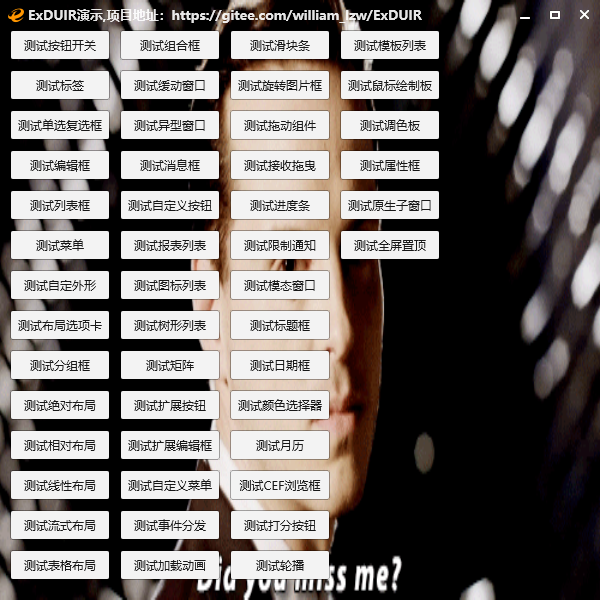
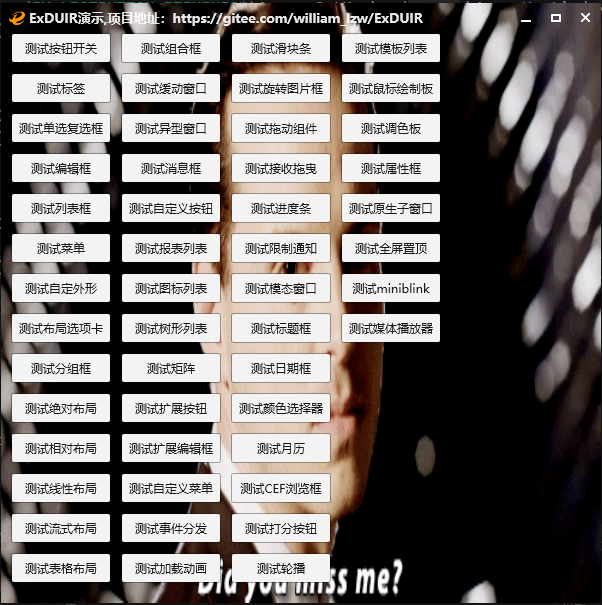
update

diff --git a/src/Class_ListButton_ex.cpp b/src/Class_ListButton_ex.cpp
@@ -95,7 +95,7 @@ LRESULT CALLBACK _listbuttonex_proc(HWND hWnd, HEXOBJ hObj, INT uMsg, WPARAM wPa
 		}
 		else
 		{
-			pTR->wzText = L"";
+			pTR->wzText = NULL;
 		}
 		if (nType == 1)//菜单条
 		{
@@ -113,7 +113,7 @@ LRESULT CALLBACK _listbuttonex_proc(HWND hWnd, HEXOBJ hObj, INT uMsg, WPARAM wPa
 			}
 			else
 			{
-				pTR->wzTips = L"";
+				pTR->wzTips = NULL;
 			}
 			pTR->dwState = pItemInfo->dwState;
 			UINT nWidth = 11;
@@ -190,7 +190,7 @@ LRESULT CALLBACK _listbuttonex_proc(HWND hWnd, HEXOBJ hObj, INT uMsg, WPARAM wPa
 					}
 					else
 					{
-						pTR->wzText = L"";
+						pTR->wzText = NULL;
 					}
 				}
 				if ((pItemInfo->dwMask & 4) == 4)
@@ -205,7 +205,7 @@ LRESULT CALLBACK _listbuttonex_proc(HWND hWnd, HEXOBJ hObj, INT uMsg, WPARAM wPa
 					}
 					else
 					{
-						pTR->wzTips = L"";
+						pTR->wzTips = NULL;
 					}
 				}
 				if ((pItemInfo->dwMask & 8) == 8)
@@ -364,7 +364,7 @@ INT _listbuttonex_itemWidth(HEXOBJ hObj, INT nType, UINT nImage, LPCWSTR wzText)
 		{
 			nWidth = Ex_ObjGetLong(hObj, ELBL_HIMAGWIDTH) + 10;
 		}
-		if (wzText != L"")
+		if (wzText != NULL)
 		{
 			if (_handle_validate(hObj, HT_OBJECT, (LPVOID*)&pObj, &nError))
 			{
@@ -451,7 +451,7 @@ void _listbuttonex_paint(HEXOBJ hObj)
 						nLeft += 5;
 						nWidth -= 10;
 
-						if (pTR->wzText != L"")
+						if (pTR->wzText != NULL)
 						{
 							EXARGB crText = Ex_ObjGetColor(hObj, COLOR_EX_TEXT_NORMAL);
 							if (pTR->dwState == STATE_DISABLE)
@@ -586,7 +586,7 @@ void _listbuttonex_mousemove(HEXOBJ hObj, INT nType, LPARAM lParam)
 				}
 				Ex_ObjInvalidateRect(hObj, 0);
 
-				if (pTR->wzTips != L"")
+				if (pTR->wzTips != NULL)
 				{
 					Ex_ObjTooltipsPop(hObj, pTR->wzTips);
 				}

diff --git a/msvc/test/test_obj.cpp b/msvc/test/test_obj.cpp
@@ -3409,7 +3409,7 @@ LRESULT CALLBACK OnMediaBtnEnevt(HEXOBJ hObj, INT nID, INT nCode, WPARAM wParam,
 {
 	if (hObj == m_hObjMediaButton1)
 	{
-		Ex_ObjSendMessage(m_hObjMedia, MFM_STATE_PLAY, 0, (LPARAM)L"file:///d:/44030123123.mp4");//可不带file:///前缀
+		Ex_ObjSendMessage(m_hObjMedia, MFM_STATE_PLAY, 0, (LPARAM)L"file:///G:/35.mp4");//可不带file:///前缀
 	}
 	else if (hObj == m_hObjMediaButton2)
 	{

diff --git a/README_EN.md b/README_EN.md
@@ -41,7 +41,7 @@ Currently,the following two compiling methods are supported:
 * Mimic The Windows messaging mechanism by sending messages and distributing notifications to components, compatible with native Windows messages and constants. Win32 API writing, more flexible than class writing extensibility.
 * Use Win32 style API method to call, support the generation of lib static library and DLL dynamic library. The generated dynamic link library can be called by other languages such as python, Java, go, dephi, C#, VB, easy language, etc.
 * Extension components are free and flexible, and the engine handles the underlying logic. The user only needs to write the drawing code and does not need to worry about complex message processing.
-* Currently support component has a button, switch, radio buttons, select box, edit box, rich text edit box, listview, report listview, template listview, group boxes, combo boxes, menus, tree frame, the slider, radio buttons, select box, TAB, load, animations, rotating picture box, page, picture box, message box, list of ICONS, list button, the toolbar , status bar, date box, color palette, color picker, title box, calendar box, score button, cef3 browser box, drawing board, you can superclass extension components on these components.
+* Currently support component has a button, switch, radio buttons, select box, edit box, rich text edit box, listview, report listview, template listview, group boxes, combo boxes, menus, tree frame, the slider, radio buttons, select box, TAB, load, animations, rotating picture box, page, picture box, message box, list of ICONS, list button, the toolbar , status bar, date box, color palette, color picker, title box, calendar box, score button, cef3 browser box, drawing board, media player, you can superclass extension components on these components.
 * Support for layouts that automatically update component positions when window sizes change. Currently, the following layouts are supported: absolute layout, relative layout, linear layout, flow layout, and table layout. Users can extend the layout.
 * Support GIF format images automatically play animation, support image format PNG, JPEG, BMP, GIF, WEBP. Windows or components can use the above format image as the background.
 * Support 34 eases, users can freely write window eases or component eases. Users can extend the easing algorithm.

diff --git a/README.md b/README.md
@@ -41,7 +41,7 @@ win7需要安装KB2670838补丁
 * 仿Windows消息机制，通过发送消息，分发通知给组件，兼容原生Windows消息和常量。win32 api写法，比类写法扩展性更灵活。
 * 调用方式采用Win32风格API方式，支持生成lib静态库和dll动态库。生成的动态链接库支持被其它语言如python、java、go、dephi、C#、VB、易语言等调用。
 * 扩展组件自由灵活，引擎处理底层逻辑。用户只需编写绘制代码，不需要考虑复杂的消息处理。
-* 目前支持组件有按钮、开关、单选框、选择框、编辑框、富文本编辑框、列表框、报表列表、模板列表、分组框、组合框、菜单、树形框、滑块、单选框、选择框、选项卡、加载动画框、旋转图片框、页面、图片框、消息框、图标列表、列表按钮、工具条、状态条、日期框、调色板、颜色选择器、标题框、月历框、分数按钮、cef3浏览框、鼠标绘制板，可以在这些组件基础上超类化扩展组件。
+* 目前支持组件有按钮、开关、单选框、选择框、编辑框、富文本编辑框、列表框、报表列表、模板列表、分组框、组合框、菜单、树形框、滑块、单选框、选择框、选项卡、加载动画框、旋转图片框、页面、图片框、消息框、图标列表、列表按钮、工具条、状态条、日期框、调色板、颜色选择器、标题框、月历框、分数按钮、cef3浏览框、鼠标绘制板、媒体播放器，可以在这些组件基础上超类化扩展组件。
 * 支持布局，布局可以在窗口尺寸改变情况下自动更新组件位置。目前支持的布局有绝对布局，相对布局、线性布局、流式布局、表格布局。用户可以扩展布局。
 * 支持GIF格式图片自动播放动画，支持图片格式PNG、JPEG、BMP、GIF、WEBP。窗口或组件都可以用以上格式图片做背景图。
 * 支持34种缓动特效，用户可以自由编写窗口缓动或组件缓动特效。用户可以扩展缓动算法。
